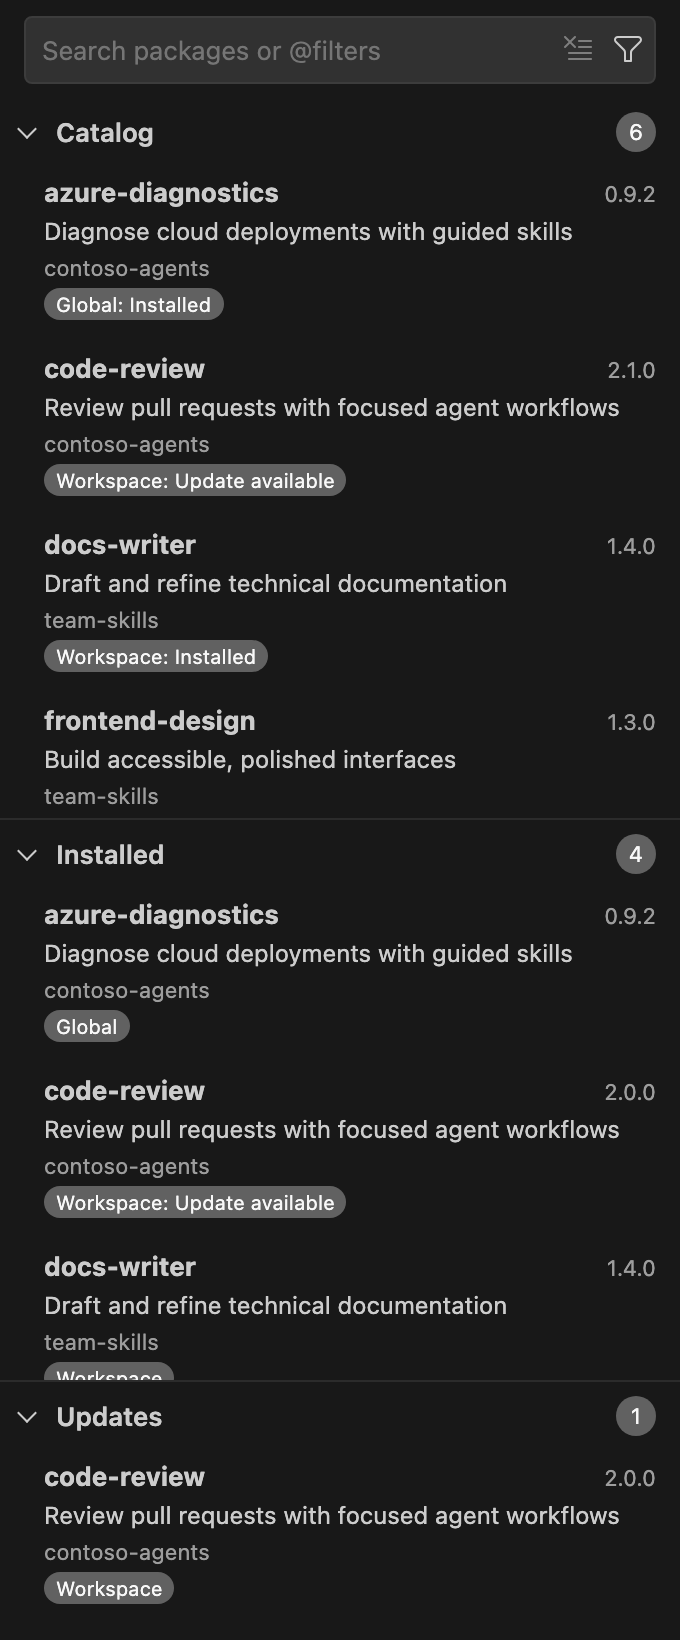
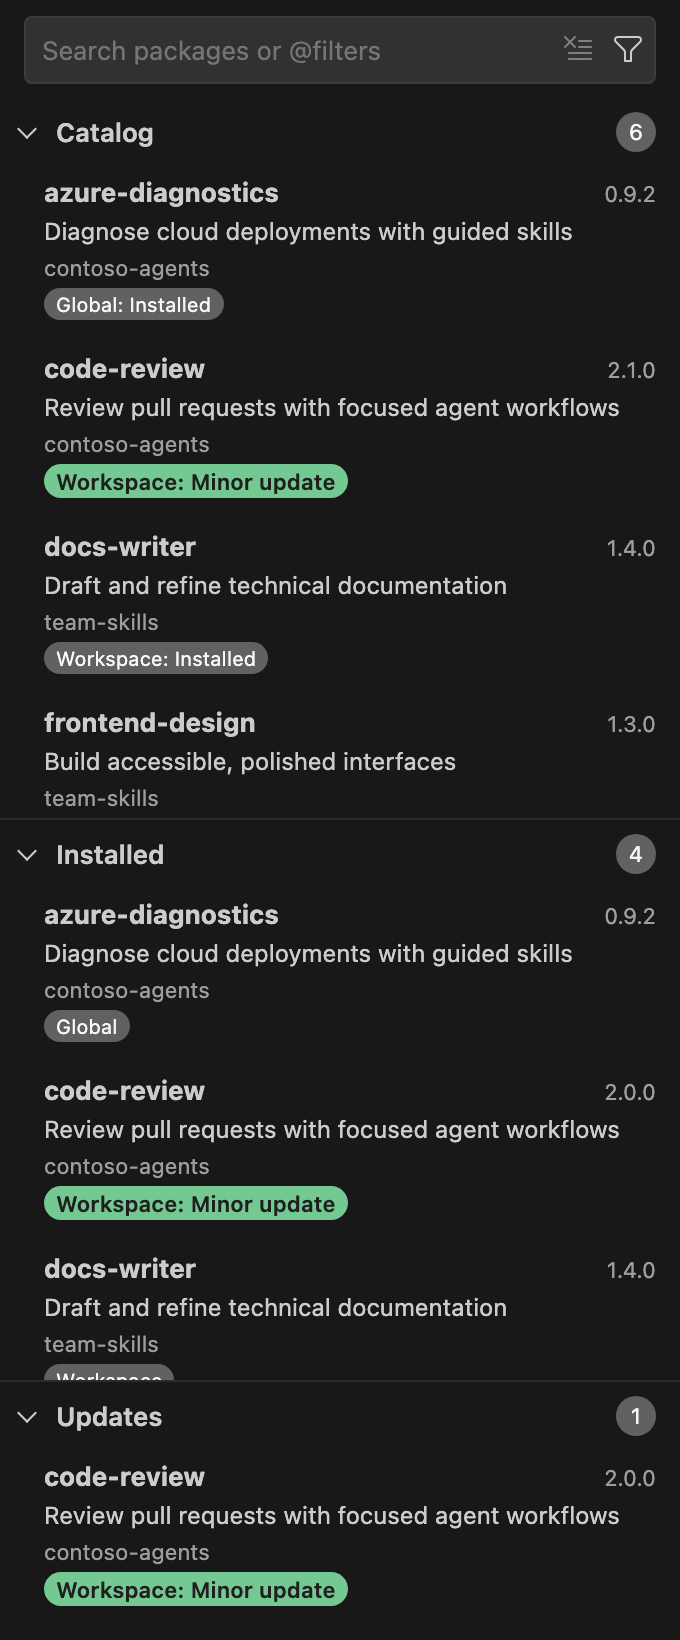
Add color-coded SemVer update badges
Show patch, minor, and major update types in package status badges, with tests and updated documentation screenshots.

diff --git a/src/webview/main.ts b/src/webview/main.ts
@@ -3,6 +3,7 @@ import type { PackageAction } from '../apm/actions';
 import type { PackageItem, Scope } from '../apm/types';
 import { dependencyTreeItem, type DependencyTreeNode } from '../apm/dependencyTree';
 import { marketplaceLabel, samePackage } from '../apm/packageState';
+import { versionUpdateKind } from '../apm/versions';
 import { renderActionResult, renderDetailSections } from './details';
 import { el } from './dom';
 import { filterPackages, filterTokens, sectionPackages, withStatus, withToken, type Filters } from './filter';
@@ -54,8 +55,12 @@ function badge(text: string) { return el('span', 'badge', text); }
 function origin(item: PackageItem) { return marketplaceLabel(item) || item.source || 'Direct source'; }
 function installationTag(section: BrowserSection | 'details', installation: PackageItem, select?: () => void) {
   const outdated = installation.updateStatus === 'outdated';
-  const status = section === 'updates' ? installation.updateStale ? 'Cached' : undefined
-    : outdated ? installation.updateStale ? 'Update available (cached)' : 'Update available'
+  const kind = outdated ? versionUpdateKind(installation.version, installation.latestVersion) : undefined;
+  const updateLabel = kind === undefined ? undefined : kind === 'available' ? 'Update available'
+    : `${kind[0].toUpperCase()}${kind.slice(1)} update`;
+  const status = section === 'updates' ? outdated ? `${updateLabel}${installation.updateStale ? ' (cached)' : ''}`
+    : installation.updateStale ? 'Cached' : undefined
+    : outdated ? `${updateLabel}${installation.updateStale ? ' (cached)' : ''}`
       : installation.updateStale ? 'Showing saved update status'
         : installation.updateStatus === 'failed' || installation.updateStatus === 'unknown' ? 'Could not check for updates'
           : installation.updateStatus === 'not-comparable' ? 'Version could not be compared'
@@ -63,7 +68,17 @@ function installationTag(section: BrowserSection | 'details', installation: Pack
   const scope = installation.scope ? scopeKindLabel(installation.scope) : undefined;
   const text = scope && status ? `${scope}: ${status}` : scope ?? status;
   if (!text) return undefined;
-  return select ? button(text, select, 'badge') : badge(text);
+  const tag = select ? button(text, select, 'badge') : badge(text);
+  if (kind) {
+    tag.classList.add('update-type', `update-type-${kind}`);
+    if (installation.latestVersion) {
+      const note = kind === 'major' ? 'This may include incompatible changes; review release notes before updating.'
+        : kind === 'available' ? 'Review release notes to understand the changes.'
+          : 'This label describes the SemVer version bump; review release notes for exact changes.';
+      tag.title = `${installation.version} → ${installation.latestVersion}. ${note}`;
+    }
+  }
+  return tag;
 }
 function packageAction(text: string, name: PackageAction, className = '') {
   const node = button(text, () => send({ type: 'packageAction', action: name }), className);
@@ -776,14 +791,20 @@ function renderDetails(container: HTMLElement) {
   if (state.actionResult?.preview && state.actionResult.status === 'success') toolbar.append(packageAction('Review and apply preview options', 'applyPreview'));
   container.append(toolbar);
   if (state.actionResult) container.append(renderActionResult(state.actionResult, () => send({ type: 'cancel' }), id => send({ type: 'navigate', id })));
+  const updateKind = item.updateStatus === 'outdated'
+    ? versionUpdateKind(item.version, item.latestVersion) : undefined;
+  const updateLabel = updateKind && updateKind !== 'available'
+    ? `${updateKind[0].toUpperCase()}${updateKind.slice(1)} update available` : 'Update available';
   const updateMessage = item.updateStatus === 'outdated'
-    ? `Update available${item.latestVersion ? `: ${item.latestVersion}` : ''}.${item.updateStale ? ' This is the last known result; refresh to verify.' : ''}`
+    ? `${updateLabel}${item.latestVersion ? `: ${item.version} → ${item.latestVersion}` : ''}.${updateKind === 'major' ? ' This may include incompatible changes; review release notes before updating.'
+      : updateKind === 'available' ? ' Review release notes to understand the changes.'
+        : ' SemVer describes the version bump, not the exact release contents; review release notes for details.'}${item.updateStale ? ' This is the last known result; refresh to verify.' : ''}`
     : item.updateStatus === 'current' ? 'This package is up to date.'
       : item.updateStatus === 'failed' || item.updateStatus === 'unknown'
         ? `Could not check for updates${item.updateStale ? '; showing the last known result' : ''}.`
         : item.updateStatus === 'not-comparable' ? 'Could not compare this package version with the latest version.'
           : item.updateStatus === 'unchecked' ? 'Update status has not been checked yet.' : undefined;
-  if (updateMessage) container.append(el('p', `notice${item.updateStale ? ' warning' : ''}`, updateMessage));
+  if (updateMessage) container.append(el('p', `notice${item.updateStale || updateKind === 'major' ? ' warning' : ''}`, updateMessage));
   container.append(renderDetailSections(item, state.details, state.busy, id => send({ type: 'navigate', id })));
   if (state.readmeHtml) {
     const article = el('article', 'readme'); article.innerHTML = state.readmeHtml; container.append(article);

diff --git a/test/browser/webview.spec.ts b/test/browser/webview.spec.ts
@@ -41,6 +41,10 @@ for (const theme of ['dark', 'light', 'high-contrast']) {
       --vscode-button-hoverBackground:#026ec1; --vscode-descriptionForeground:${dark ? '#aaa' : '#555'};
       --vscode-badge-background:#444; --vscode-badge-foreground:white;
       --vscode-focusBorder:#0078d4; --vscode-editorWarning-foreground:#cca700;
+      --vscode-textLink-foreground:${dark ? '#4daafc' : '#006ab1'};
+      --vscode-testing-iconPassed:${dark ? '#73c991' : '#388a34'};
+      --vscode-inputValidation-warningBackground:${dark ? '#4b3b00' : '#fff4ce'};
+      --vscode-inputValidation-warningForeground:${dark ? '#f6d365' : '#9a6700'};
       --vscode-list-hoverBackground:${dark ? '#2b2d2e' : '#e5e5e5'};
       --vscode-icon-foreground:${dark ? '#ccc' : '#333'};
       --vscode-menu-background:${dark ? '#252526' : '#fff'};
@@ -61,10 +65,10 @@ for (const theme of ['dark', 'light', 'high-contrast']) {
       marketplaces: [{ name: 'copilot-plugins', source: 'github/copilot-plugins' }, { name: 'team-skills', source: 'example/team-skills' }],
       checkedAt: '2026-11-05T10:00:00Z',
       catalog: [
-        { id: 'copilot-plugins::code-review', name: 'code-review', marketplace: 'copilot-plugins', description: 'Review code with focused agent workflows', version: '2.1.0', installed: true, updateStatus: 'outdated' },
+        { id: 'copilot-plugins::code-review', name: 'code-review', marketplace: 'copilot-plugins', description: 'Review code with focused agent workflows', version: '2.1.0', installed: true, updateStatus: 'outdated', latestVersion: '2.1.0' },
         { id: 'team-skills::frontend-design', name: 'frontend-design', marketplace: 'team-skills', description: 'Build accessible, polished interfaces', version: '1.3.0', installed: false }
       ],
-      installed: [{ id: 'copilot-plugins::code-review', name: 'code-review', marketplace: 'copilot-plugins', description: 'Review code with focused agent workflows', version: '2.0.0', installed: true, updateStatus: 'outdated' }]
+      installed: [{ id: 'copilot-plugins::code-review', name: 'code-review', marketplace: 'copilot-plugins', description: 'Review code with focused agent workflows', version: '2.0.0', installed: true, updateStatus: 'outdated', latestVersion: '2.1.0' }]
     };
     await postMessage(page, { type: 'state', state });
     await expect(page.locator('.package-row')).toHaveCount(4);
@@ -98,12 +102,17 @@ for (const theme of ['dark', 'light', 'high-contrast']) {
     await postMessage(page, { type: 'state', state: mixed });
     await expect(page.locator('.count-badge')).toHaveText(['2', '2', '2']);
     await expect(page.locator('#section-body-catalog .package-row').first().locator('.badge'))
-      .toHaveText(['Global: Update available', 'Workspace: Update available']);
+      .toHaveText(['Global: Major update', 'Workspace: Minor update']);
     const installedRows = page.locator('#section-body-installed .package-row');
     const updateRows = page.locator('#section-body-updates .package-row');
-    await expect(installedRows.nth(0).locator('.badge')).toHaveText(['Global: Update available']);
-    await expect(installedRows.nth(1).locator('.badge')).toHaveText(['Workspace: Update available']);
-    await expect(updateRows.locator('.badge')).toHaveText(['Global', 'Workspace']);
+    await expect(installedRows.nth(0).locator('.badge')).toHaveText(['Global: Major update']);
+    await expect(installedRows.nth(0).locator('.badge')).toHaveClass(/update-type-major/);
+    await expect(installedRows.nth(1).locator('.badge')).toHaveText(['Workspace: Minor update']);
+    await expect(installedRows.nth(1).locator('.badge')).toHaveClass(/update-type-minor/);
+    await expect(updateRows.locator('.badge')).toHaveText(['Global: Major update', 'Workspace: Minor update']);
+    const majorColor = await installedRows.nth(0).locator('.badge').evaluate(element => getComputedStyle(element).backgroundColor);
+    const minorColor = await installedRows.nth(1).locator('.badge').evaluate(element => getComputedStyle(element).backgroundColor);
+    expect(majorColor).not.toBe(minorColor);
     await expectBorderlessBadges(page);
     await page.screenshot({ path: testInfo.outputPath(`dual-scope-${theme}.png`), fullPage: true });
     await installedRows.first().click();
@@ -125,7 +134,7 @@ for (const theme of ['dark', 'light', 'high-contrast']) {
       catalog: withInstallations(state.catalog, [global]) } });
     await expect(page.locator('#search')).toBeVisible();
     await expect(page.locator('.count-badge')).toHaveText(['2', '1', '1']);
-    await expect(page.locator('#section-body-installed .badge')).toHaveText(['Global: Update available']);
+    await expect(page.locator('#section-body-installed .badge')).toHaveText(['Global: Major update']);
     await expect(page.locator('#section-body-catalog').getByText(/^Workspace:/)).toHaveCount(0);
     expect(await page.evaluate(() => document.documentElement.scrollWidth <= window.innerWidth)).toBe(true);
     const crowded = { ...state, catalog: Array.from({ length: 60 }, (_, i) => ({ ...state.catalog[0], id: `catalog-${i}`, name: `Package ${i}` })) };

diff --git a/test/webview/ui.test.ts b/test/webview/ui.test.ts
@@ -85,7 +85,8 @@ test('dual installations have two catalog tags, separate scoped rows and unambig
     assert.equal(page.document.querySelector('#section-heading-updates .count-badge')?.textContent, '2');
     const updateRows = [...page.document.querySelectorAll<HTMLButtonElement>('#section-body-updates .package-row')];
     assert.equal(updateRows.length, 2);
-    assert.deepEqual(updateRows.map(row => row.querySelector('.badge')?.textContent), ['Global', 'Workspace']);
+    assert.deepEqual(updateRows.map(row => row.querySelector('.badge')?.textContent),
+      ['Global: Update available', 'Workspace: Update available']);
     updateRows[1].click();
     assert.equal(JSON.stringify(page.messages.at(-1)), JSON.stringify({ type: 'details', id: project.id, scopeKey: 'workspace:/project' }));
     page.state.browserSearch = '@scope:workspace'; page.update();
@@ -139,7 +140,7 @@ test('scope tags fold installation and update-check status without repeating the
     page.update();
     assert.deepEqual(tags('#section-body-catalog'), [['Global: Installed', 'Workspace: Update available (cached)'], []]);
     assert.deepEqual(tags('#section-body-installed'), [['Global'], ['Workspace: Update available (cached)']]);
-    assert.deepEqual(tags('#section-body-updates'), [['Workspace: Cached']]);
+    assert.deepEqual(tags('#section-body-updates'), [['Workspace: Update available (cached)']]);
   } finally { page.dom.window.close(); }
 });
 test('catalog and details show both direct and marketplace installations of the same source', () => {
@@ -697,13 +698,33 @@ test('plugin details describe update state and mark cached results', () => {
   const page = browser();
   try {
     page.state.mode = 'details';
-    page.state.item = { ...page.state.installed[0], updateStatus: 'outdated', latestVersion: '1.0.0', updateStale: true };
+    page.state.item = { ...page.state.installed[0], version: '1.0.0', updateStatus: 'outdated', latestVersion: '2.0.0', updateStale: true };
     page.state.details = {};
     page.update();
     const notice = page.document.querySelector('.notice.warning');
-    assert.match(notice?.textContent ?? '', /Update available: 1\.0\.0/);
+    assert.match(notice?.textContent ?? '', /Major update available: 1\.0\.0 → 2\.0\.0/);
+    assert.match(notice?.textContent ?? '', /may include incompatible changes/);
     assert.match(notice?.textContent ?? '', /last known result; refresh to verify/);
     assert.doesNotMatch(notice?.textContent ?? '', /outdated/);
+  } finally { page.dom.window.close(); }
+});
+
+test('update rows show SemVer bump badges with a generic fallback for unstable versions', () => {
+  const page = browser('updates');
+  try {
+    const item = { ...page.state.installed[0], scope: page.state.scopes[0] };
+    for (const [current, latest, label] of [
+      ['1.2.3', '1.2.4', 'Patch update'],
+      ['1.2.3', '1.3.0', 'Minor update'],
+      ['1.2.3', '2.0.0', 'Major update'],
+      ['0.2.3', '0.3.0', 'Update available']
+    ]) {
+      page.state.installed = [{ ...item, version: current, latestVersion: latest, updateStatus: 'outdated' }];
+      page.update();
+      const badge = page.document.querySelector<HTMLSpanElement>('#section-body-updates .badge');
+      assert.equal(badge?.textContent, `Workspace: ${label}`);
+      if (label !== 'Update available') assert.ok(badge?.classList.contains(`update-type-${label.split(' ')[0].toLowerCase()}`));
+    }
   } finally { page.dom.window.close(); }
 });
 

diff --git a/src/webview/styles.css b/src/webview/styles.css
@@ -87,8 +87,16 @@ p { line-height: 1.5; }
 .tags { display: flex; flex-wrap: wrap; gap: 4px; }
 .badge, .count-badge, .content-count { border: 0; background: var(--vscode-badge-background); color: var(--vscode-badge-foreground); }
 .badge { border-radius: 10px; padding: 2px 6px; font-size: 10px; display: inline-block; overflow-wrap: anywhere; }
+.badge.update-type { font-size: 11px; font-weight: 600; }
+.badge.update-type-patch { background: var(--vscode-textLink-foreground, var(--vscode-badge-background)); color: var(--vscode-editor-background, var(--vscode-badge-foreground)); }
+.badge.update-type-minor { background: var(--vscode-testing-iconPassed, var(--vscode-charts-green, var(--vscode-badge-background))); color: var(--vscode-editor-background, var(--vscode-badge-foreground)); }
+.badge.update-type-major { background: var(--vscode-inputValidation-warningBackground, var(--vscode-editorWarning-foreground, var(--vscode-badge-background))); color: var(--vscode-inputValidation-warningForeground, var(--vscode-editor-background, var(--vscode-badge-foreground))); }
 button.badge:hover { background: var(--vscode-badge-background); text-decoration: underline; }
+button.badge.update-type-patch:hover { background: var(--vscode-textLink-foreground, var(--vscode-badge-background)); }
+button.badge.update-type-minor:hover { background: var(--vscode-testing-iconPassed, var(--vscode-charts-green, var(--vscode-badge-background))); }
+button.badge.update-type-major:hover { background: var(--vscode-inputValidation-warningBackground, var(--vscode-editorWarning-foreground, var(--vscode-badge-background))); }
 .installation-tags [aria-pressed="true"] { font-weight: 600; }
+button.badge.update-type[aria-pressed="false"] { font-weight: normal; }
 .empty { padding: 8px 12px; color: var(--vscode-descriptionForeground); font-size: 12px; }
 .section-body > button { margin: 0 12px 10px; }
 .details-section { border-top: 1px solid var(--vscode-widget-border, var(--vscode-input-border, transparent)); margin-top: 24px; padding-top: 1px; }

diff --git a/src/apm/versions.ts b/src/apm/versions.ts
@@ -3,6 +3,18 @@ export function versionParts(value: string): { numbers: number[]; pre: string[] 
   return match ? { numbers: match.slice(1, 4).map(Number), pre: match[4]?.split('.') ?? [] } : undefined;
 }
 
+export type VersionUpdateKind = 'major' | 'minor' | 'patch' | 'available';
+
+export function versionUpdateKind(current: string, latest: string | undefined): VersionUpdateKind {
+  if (!latest) return 'available';
+  const left = versionParts(current), right = versionParts(latest);
+  if (!left || !right || left.pre.length || right.pre.length || left.numbers[0] === 0 || right.numbers[0] === 0) return 'available';
+  if (left.numbers[0] !== right.numbers[0]) return 'major';
+  if (left.numbers[1] !== right.numbers[1]) return 'minor';
+  if (left.numbers[2] !== right.numbers[2]) return 'patch';
+  return 'available';
+}
+
 export function compareVersions(a: string, b: string): number {
   const left = versionParts(a), right = versionParts(b);
   if (!left || !right) return left ? -1 : right ? 1 : a.localeCompare(b);

diff --git a/test/apm/versions.test.ts b/test/apm/versions.test.ts
@@ -1,0 +1,13 @@
+import { test } from 'node:test';
+import assert from 'node:assert/strict';
+import { versionUpdateKind } from '../../src/apm/versions';
+
+test('classifies stable SemVer bumps and leaves ambiguous versions generic', () => {
+  assert.equal(versionUpdateKind('1.2.3', '1.2.4'), 'patch');
+  assert.equal(versionUpdateKind('1.2.3', '1.3.0'), 'minor');
+  assert.equal(versionUpdateKind('1.2.3', '2.0.0'), 'major');
+  assert.equal(versionUpdateKind('0.2.3', '0.3.0'), 'available');
+  assert.equal(versionUpdateKind('1.2.3-beta.1', '1.2.3'), 'available');
+  assert.equal(versionUpdateKind('Not specified', '2.0.0'), 'available');
+  assert.equal(versionUpdateKind('1.2.3', undefined), 'available');
+});

diff --git a/docs/package-browser.md b/docs/package-browser.md
@@ -67,11 +67,13 @@ Package lists and details pages use the same scope/status badges. An update or u
 
 | Section | Up to date | Newer version available |
 | --- | --- | --- |
-| **Catalog** and package details | **Workspace: Installed**, **Global: Installed** | **Workspace: Update available**, **Global: Update available** |
-| **Installed** | **Workspace**, **Global** | **Workspace: Update available**, **Global: Update available** |
-| **Updates** | | **Workspace**, **Global** |
+| **Catalog** and package details | **Workspace: Installed**, **Global: Installed** | **Workspace: Minor update**, **Global: Minor update** |
+| **Installed** | **Workspace**, **Global** | **Workspace: Minor update**, **Global: Minor update** |
+| **Updates** | | **Workspace: Minor update**, **Global: Minor update** |
 
 A package installed in both scopes has two badges in **Catalog**, and a separate entry for each scope in **Installed** and **Updates**. When a scope filter is active, **Catalog** shows only the badge for that scope. Update status is conveyed by text, not an extra border.
+
+For stable SemVer versions, update badges are colored and labeled **Patch update** (blue), **Minor update** (green), or **Major update** (amber) based on the version component that changed. A major update may include incompatible changes, so package details show a warning and recommend reviewing release notes. The label describes only the version bump, not the exact release contents. For `0.x`, pre-release, or unparseable versions, the badge stays **Update available** rather than guessing. The text label remains visible so the meaning does not rely on color alone.
 
 Direct Git installations also appear as installed in **Catalog** when their repository and package subdirectory match a catalog entry. Matching does not rely on the package name alone. If exactly one marketplace lists that source, **Installed**, **Updates**, and package details show that marketplace name instead of the repository, and marketplace search, filter, and sort include the package. A source listed by several marketplaces keeps its repository label.
 
@@ -83,7 +85,7 @@ The status part of a scope badge can also be:
 
 | Status | Meaning |
 | --- | --- |
-| **Update available (cached)**, or **Cached** in **Updates** | The update result comes from an earlier check. |
+| **Patch/Minor/Major update (cached)**, or **Update available (cached)** | The update result comes from an earlier check. |
 | **Showing saved update status** | The latest update check failed, so the last known result is shown. |
 | **Could not check for updates** | APM could not determine the update status. |
 | **Version could not be compared** | APM could not compare the installed version with the latest one. |
